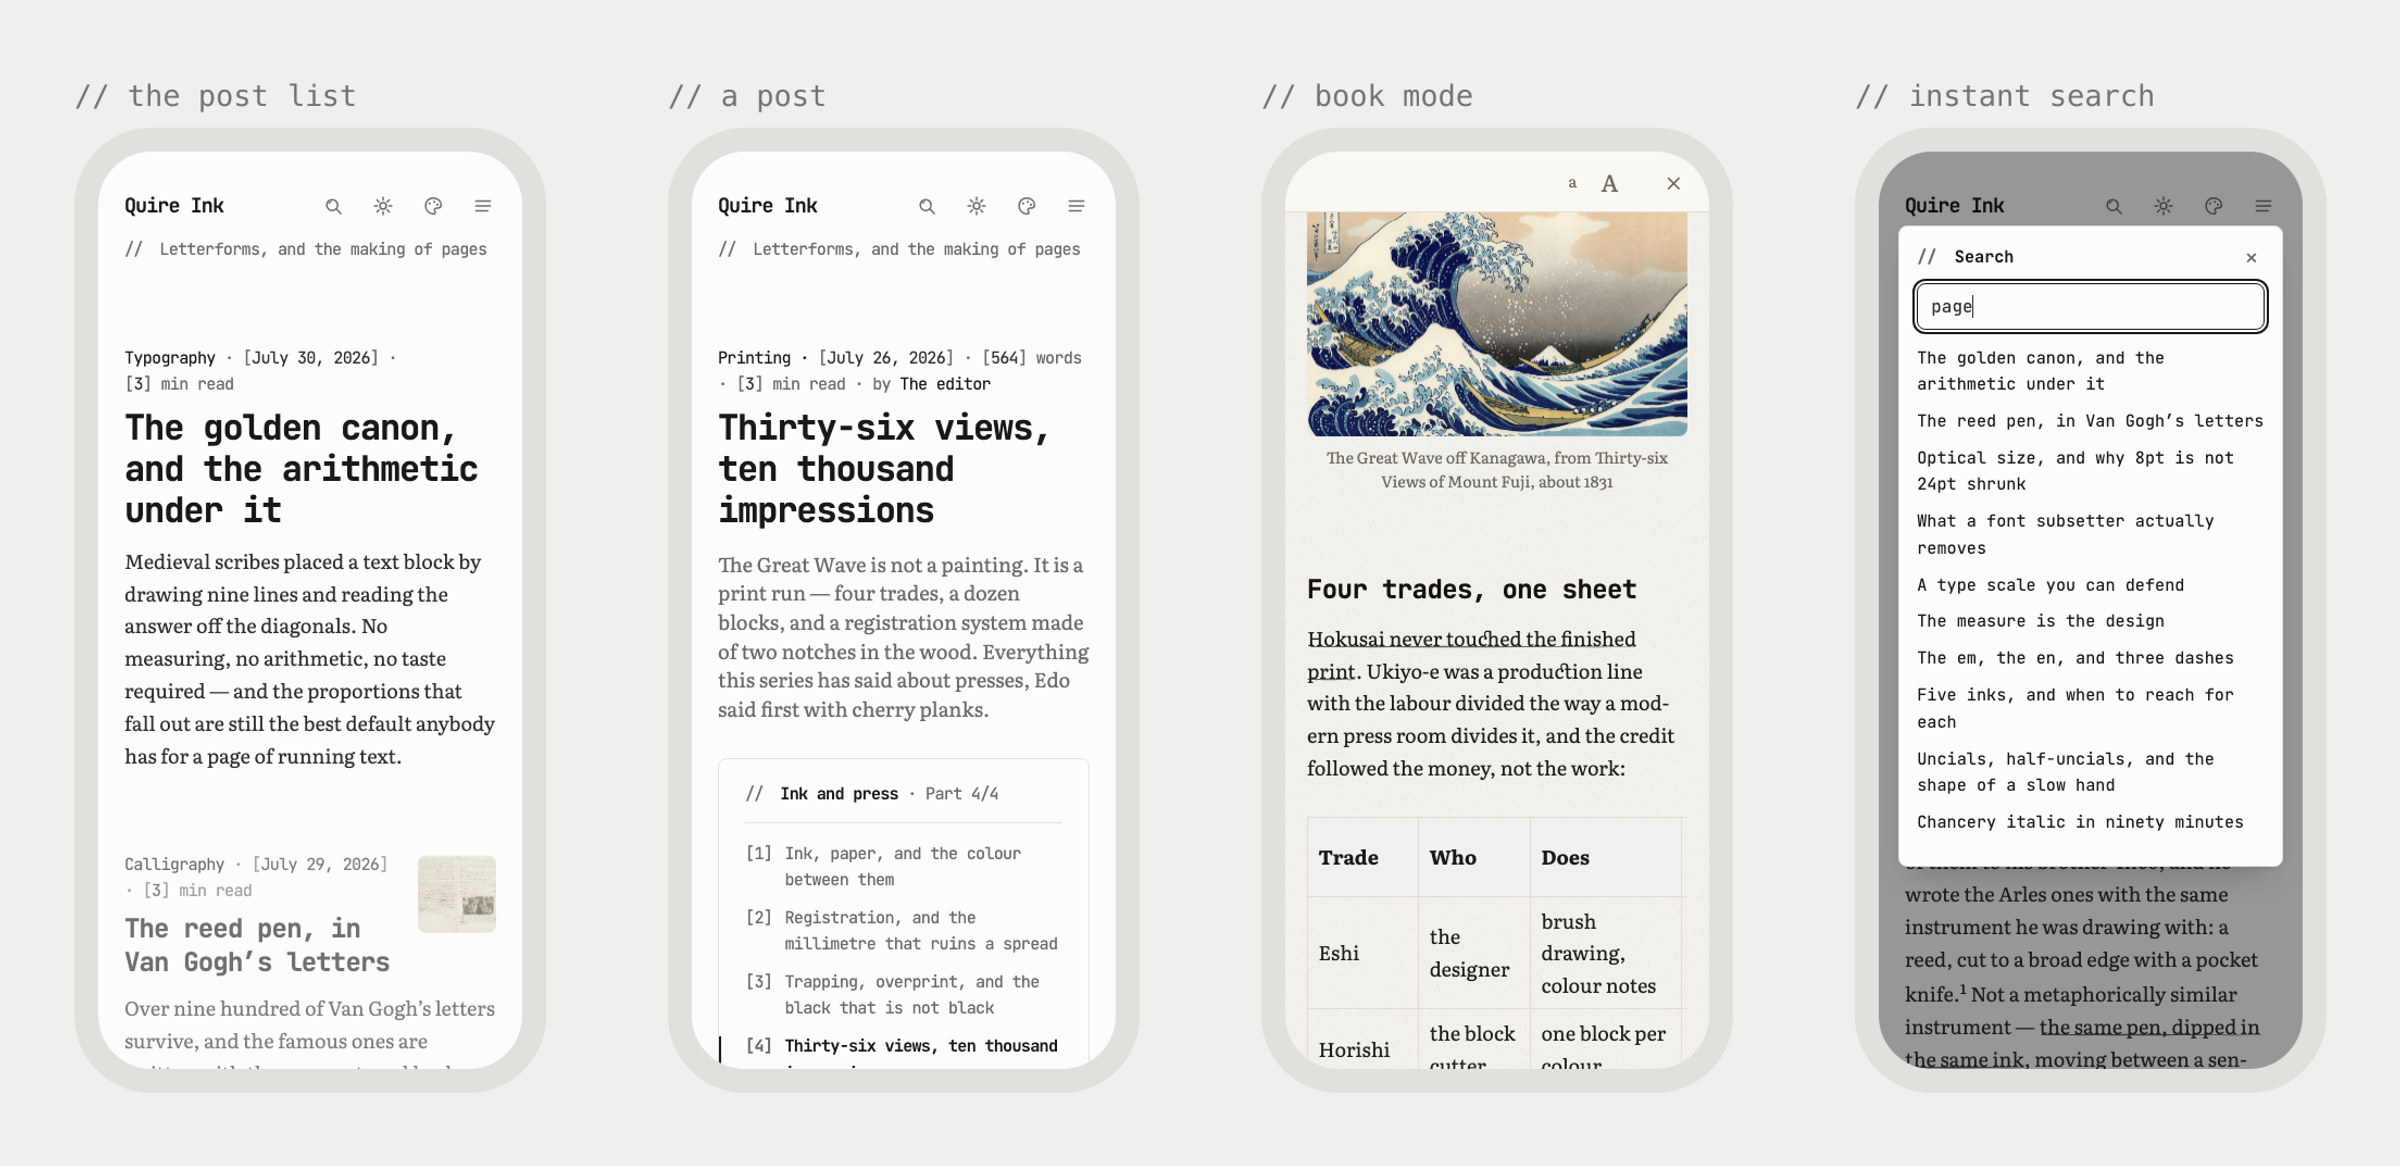
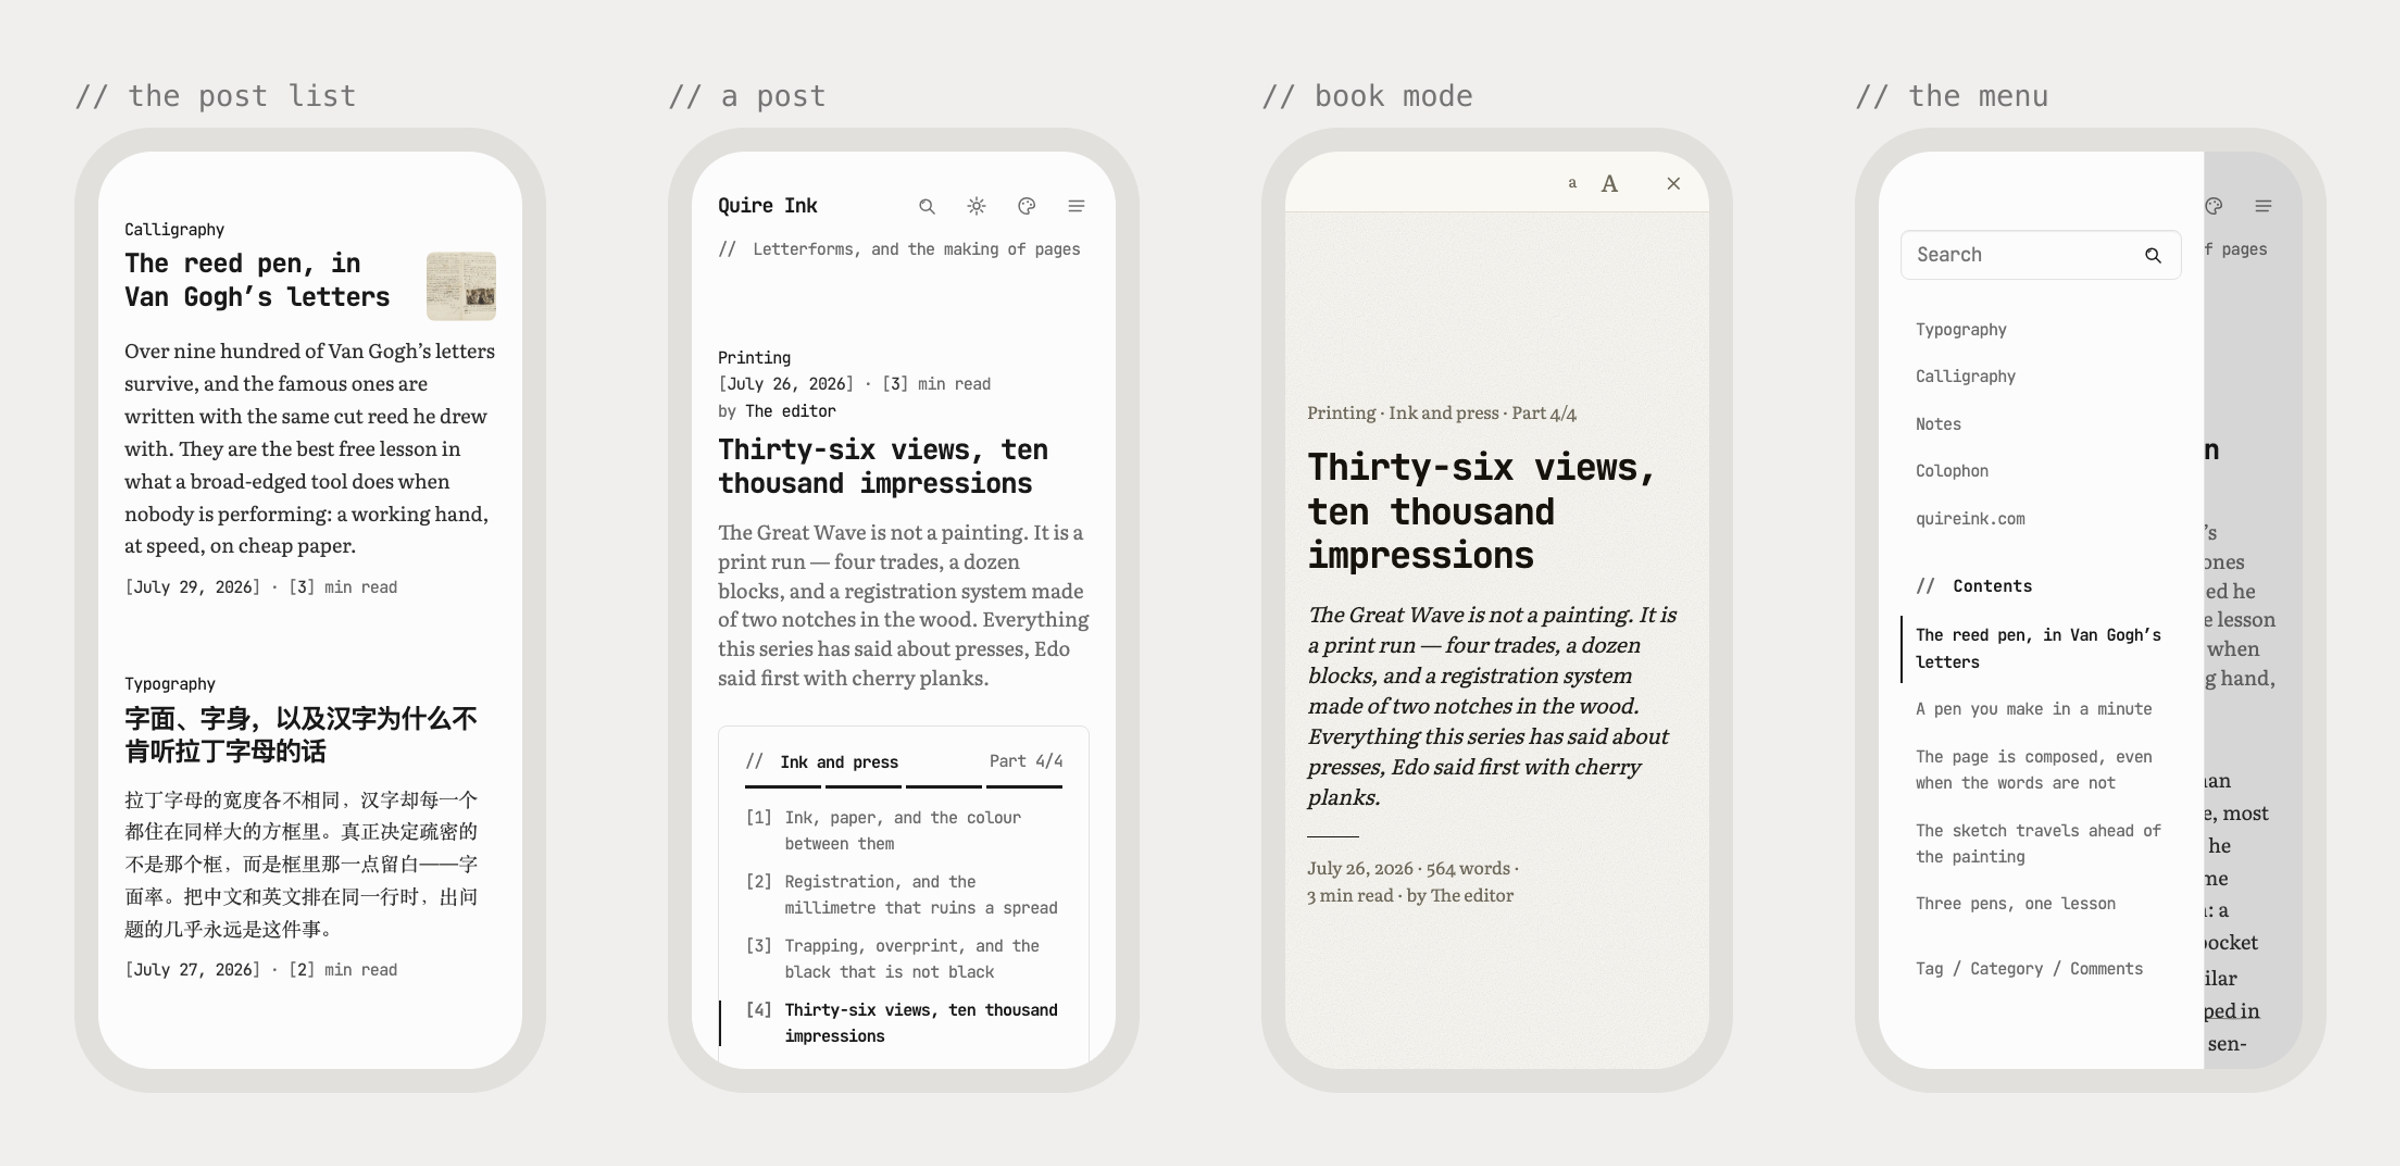
Quire Ink 2.2.18: passkey sign-in beside the password and code, reading pages redrawn (list rows read top down, a year index on wide screens, subject chips on tablets, a title page for book mode), the admin on the site's clock; the version in its eight places, the CHANGELOG dated, and the README pla

diff --git a/CHANGELOG.md b/CHANGELOG.md
@@ -1,6 +1,20 @@
 # CHANGELOG
 
-## Unreleased
+## 2026-10-08 · Quire Ink 2.2.18
+
+Five days after 2.2.17: **sign in with a passkey**, beside the password and the code and never in
+place of them, and reading pages redrawn from a device-by-device audit, with list rows that read
+top down, a year index on wide screens, subject chips on tablets and a title page for book mode.
+The admin tells time on the site's clock and stops a save from changing a post's standing behind
+your back. Upgrading is the usual pull and restart, with one line to read below if your server's
+clock is not on UTC.
+
+### Upgrading
+
+- **Dates follow the Timezone setting, then `ANALYTICS_TZ`, then UTC, never the machine's zone.**
+  Public post dates and comment times used to follow the server's own zone when *Settings → Blog →
+  Timezone* was empty. If your host or container's system zone is not UTC, set the Timezone
+  setting to keep the dates you see now.
 
 ### Added
 
@@ -182,10 +196,6 @@ run a compose file from a checkout.
 
 ### Upgrading
 
-- **Dates follow the Timezone setting, then `ANALYTICS_TZ`, then UTC, never the machine's zone.**
-  Public post dates and comment times used to follow the server's own zone when *Settings → Blog →
-  Timezone* was empty. If your host or container's system zone is not UTC, set the Timezone
-  setting to keep the dates you see now.
 - **Migration 022 runs by itself** on the first start: it adds the two tables a newsletter send is
   now worked through from (see Fixed).
 - **Every compose file runs the published image.** `docker-compose.yml` and

diff --git a/docs/conventions/releases.md b/docs/conventions/releases.md
@@ -23,7 +23,7 @@ On any behavior change, update the matching doc in the SAME change:
   [`scripts/ops/quire-backup.sh`](../../scripts/ops/quire-backup.sh) does.
 - **Audits** are dated snapshots, so they are write-only and they live with the author's
   notes rather than here. Read the latest first so a pass starts from the last clean line.
-- **Versioning (do NOT auto-bump):** the version is **`2.2.17`**, cut 2026-10-03, the release that put Quire Ink on Cloudflare: a Deploy button for a new blog, Move to Cloudflare from Settings for one already running, one-key updates and leaving, and a fresh install that starts from a backup of any size (2.2.16 was 2026-09-30). From 2.0
+- **Versioning (do NOT auto-bump):** the version is **`2.2.18`**, cut 2026-10-08, the release that added passkey sign-in beside the password and code and redrew the reading pages (list rows read top down, a year index on wide screens, subject chips on tablets, a title page for book mode) (2.2.17 was 2026-10-03). From 2.0
   the number is semver and means something (the 1.5.x `x` was a running counter): MAJOR for a
   break in how the thing is installed or run, MINOR for a feature, PATCH for a fix. The owner
   picks the number, and has taken the patch slot for minor-sized work nine releases running;

diff --git a/docs/dockerhub-overview.md b/docs/dockerhub-overview.md
@@ -75,7 +75,7 @@ services:
 |---|---|
 | `latest` | The newest release. **The one to install**, because the newest release is the one carrying the fixes. |
 | `2.2` | Fixes within the 2.2 line, no feature surprises. For anyone who would rather step up a major version by hand. |
-| `2.2.17` | One exact release. Nothing moves, ever. |
+| `2.2.18` | One exact release. Nothing moves, ever. |
 
 `linux/amd64` and `linux/arm64`, each built on its own native runner. The same image is on
 GHCR as `ghcr.io/joiha-steven/quireink`, pushed by the same run with the same digest.

diff --git a/README.vi.md b/README.vi.md
@@ -5,7 +5,7 @@
   <img src="docs/brand/wordmark-light.svg" alt="quireINK" width="360">
 </picture>
 
-`2.2.17`
+`2.2.18`
 
 **Blog tự host cho một người viết. Nhờ được AI viết và trông coi hộ.**
 Không thuật toán, không quảng cáo, không nền tảng nào đứng giữa bạn và người đọc. Tên bạn trên đó, không phải tên chúng tôi.

diff --git a/README.md b/README.md
@@ -5,7 +5,7 @@
   <img src="docs/brand/wordmark-light.svg" alt="quireINK" width="360">
 </picture>
 
-`2.2.17`
+`2.2.18`
 
 **A blog you host yourself, and an AI agent can run it for you.**
 No algorithm, no ads, no platform standing between you and your readers.
